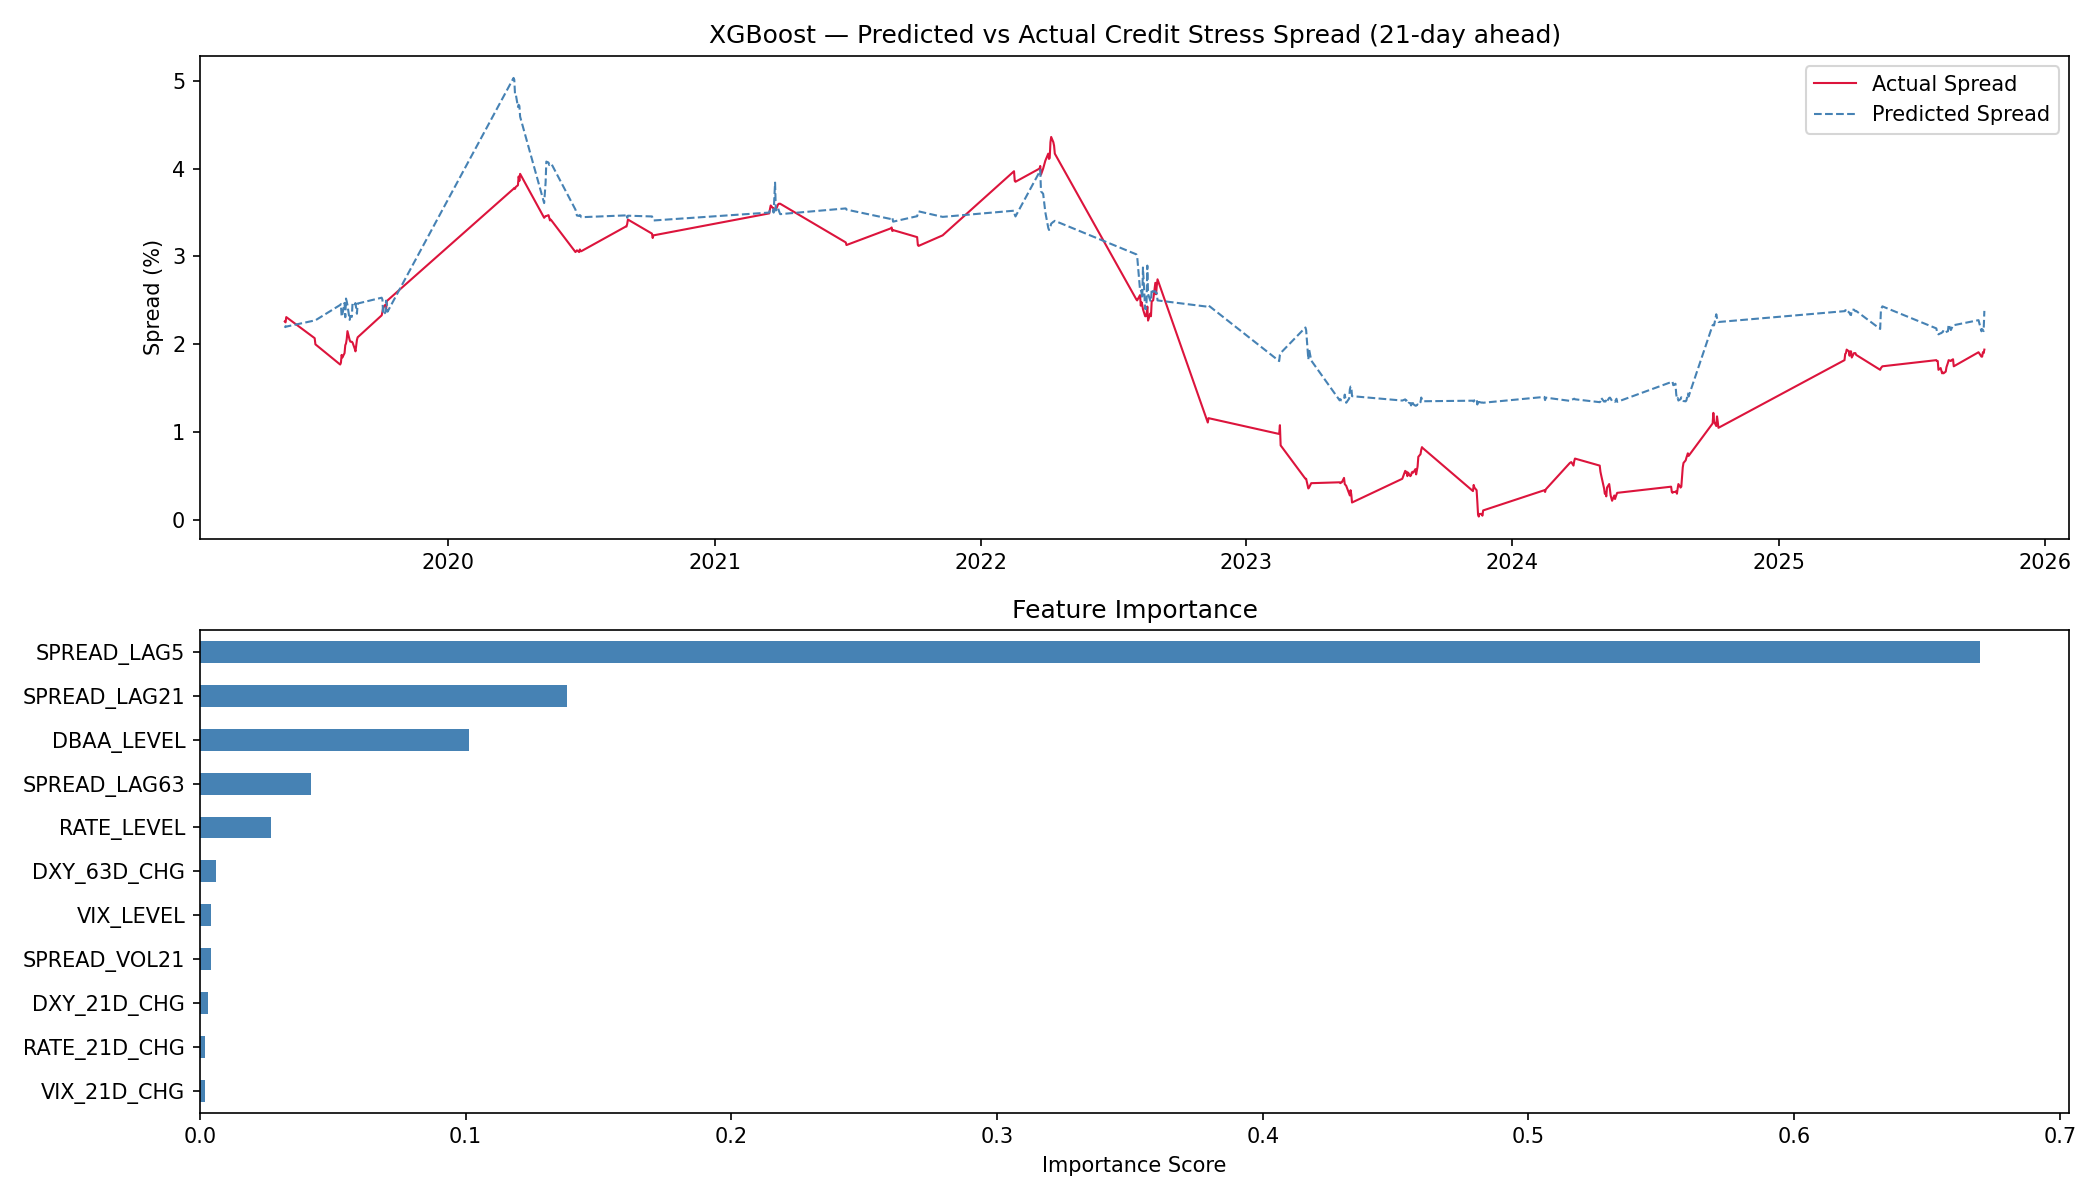
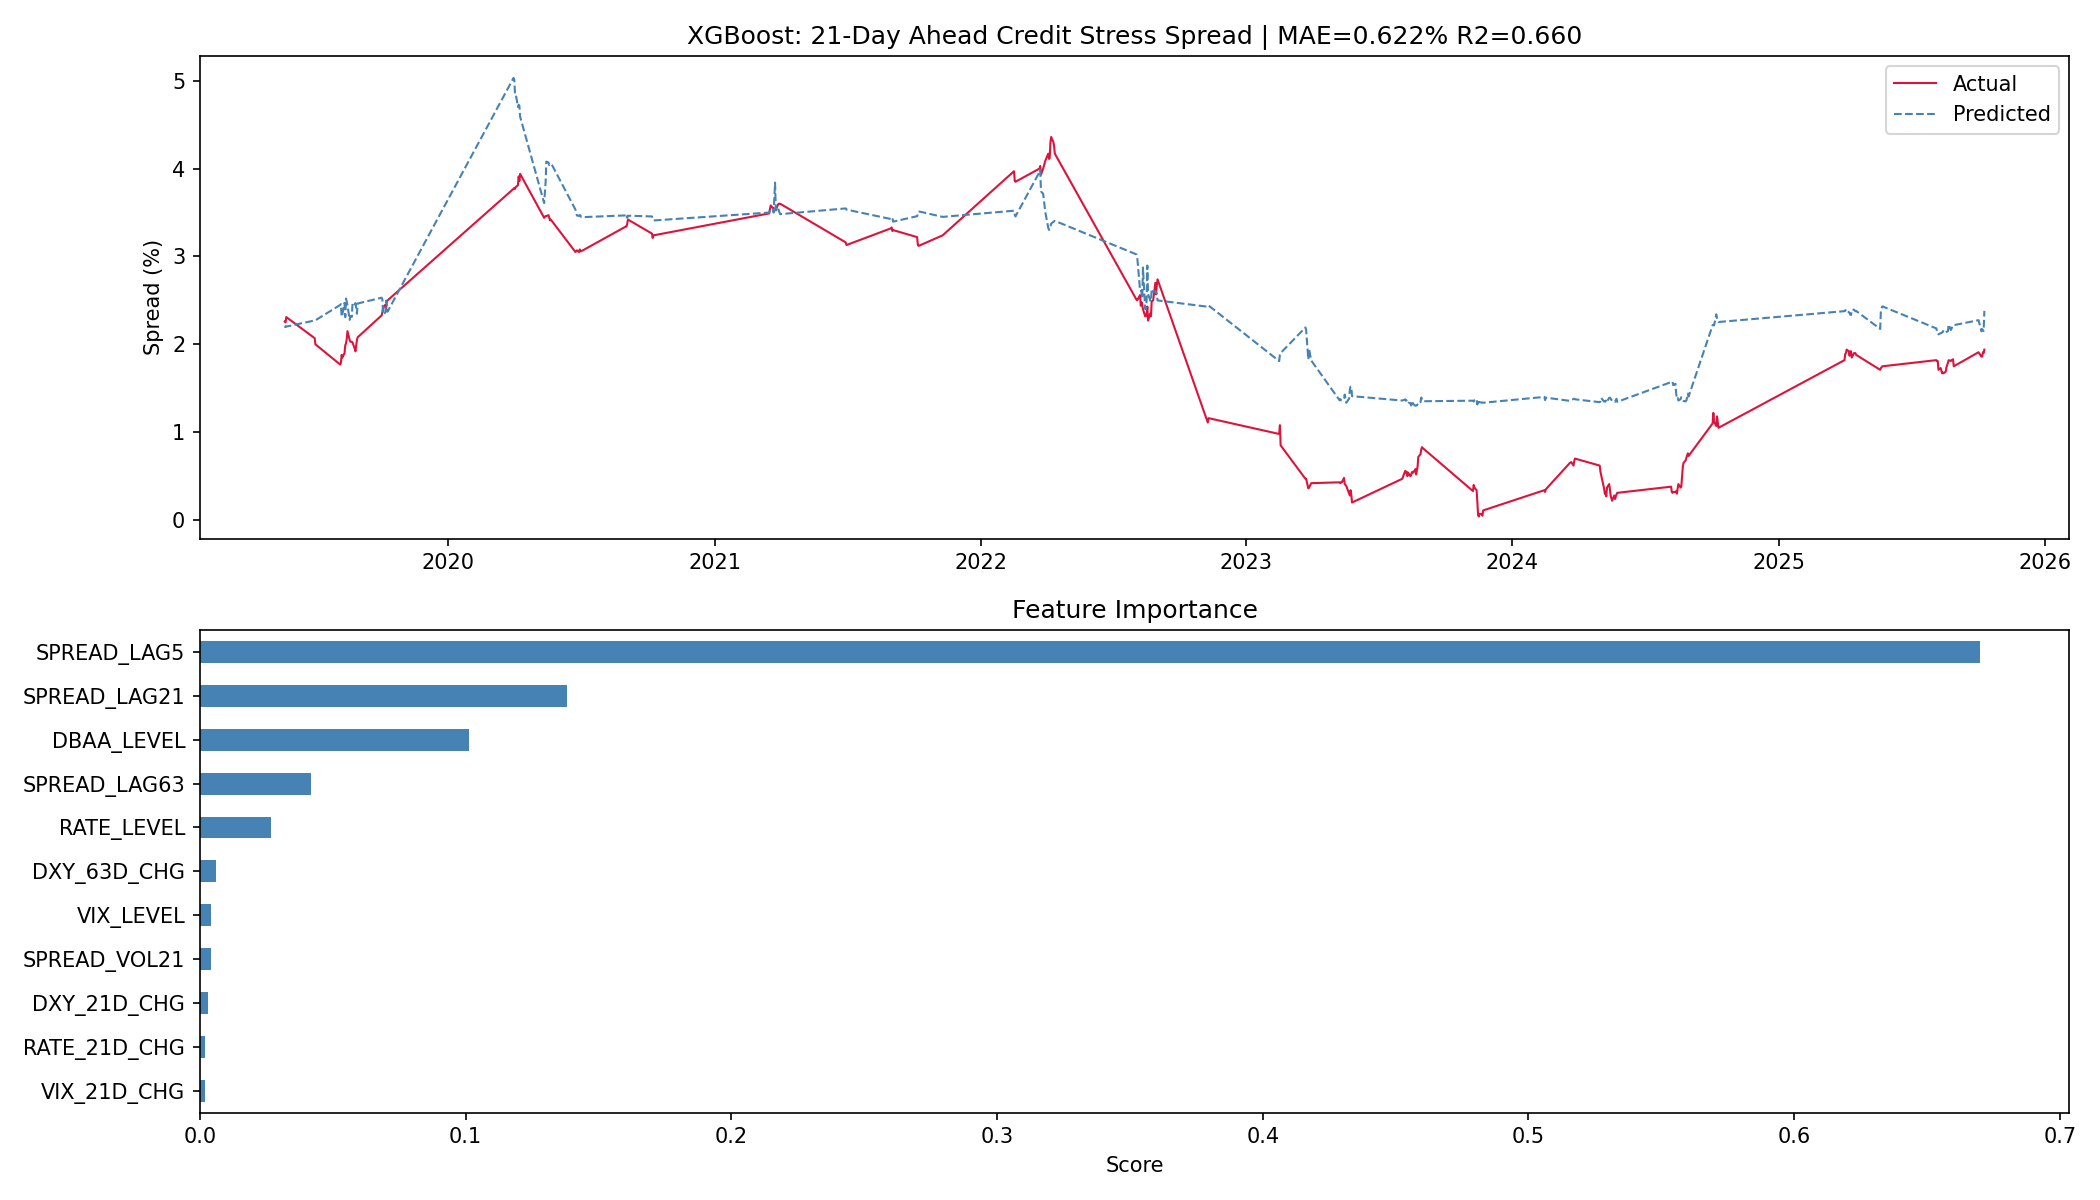
Add app data files and fix paths for deployment

Changed region(s): [[0.3405, 0.0, 0.7429, 0.0617], [0.8976, 0.0617, 0.9595, 0.1233], [0.4952, 0.9558, 0.5881, 0.9867]]

diff --git a/app/app.py b/app/app.py
@@ -7,14 +7,14 @@ import matplotlib.pyplot as plt
 st.set_page_config(page_title='STF-Alpha-Pricer', page_icon='📊', layout='wide')
 
 def load_all():
-    df = pd.read_csv('../data/fred_master.csv', parse_dates=['date'], index_col='date')
-    fx = pd.read_csv('../data/fx_oracle_clean.csv', parse_dates=['observation_date'], index_col='observation_date')
-    comm = pd.read_csv('../data/commodity_adj.csv', index_col='commodity')
-    corr = pd.read_csv('../data/corridor_map.csv', index_col='corridor')
+    df = pd.read_csv('data/fred_master.csv', parse_dates=['date'], index_col='date')
+    fx = pd.read_csv('data/fx_oracle_clean.csv', parse_dates=['observation_date'], index_col='observation_date')
+    comm = pd.read_csv('data/commodity_adj.csv', index_col='commodity')
+    corr = pd.read_csv('data/corridor_map.csv', index_col='corridor')
     return df, fx, comm, corr
 
 def load_model():
-    with open('../data/xgboost_model.pkl', 'rb') as f:
+    with open('data/xgboost_model.pkl', 'rb') as f:
         return pickle.load(f)
 
 df, fx, comm, corr = load_all()
